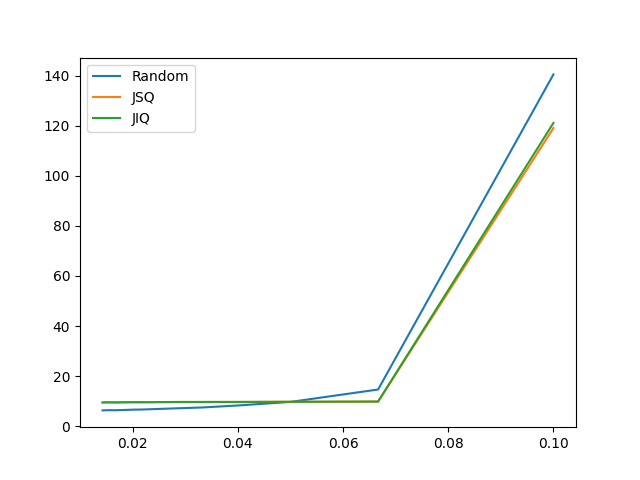
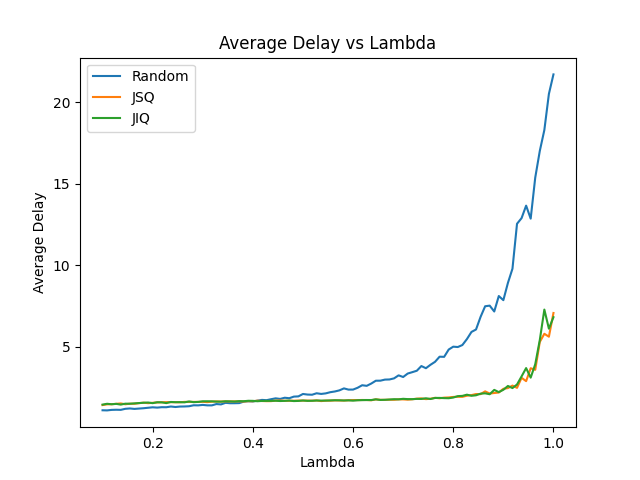
finished environment :)

diff --git a/testenv.py b/testenv.py
@@ -14,30 +14,36 @@ parser.add_argument("dispatchercount", help="The number of dispatchers within th
 args = parser.parse_args()
 
 results = {}
-intervals = [i for i in range(1, 75, 5)]
-for op in range(1, 2):
+
+
+LAMBDAS = np.linspace(0.1, 1.0, num=100)
+for op in range(1, 4):
     avgDelay = []
-    for interval in intervals:
-        delaysArr = []
-        env = simpy.Environment()
-        serverArr = [Server(env, str(i), delaysArr) for i in range(args.servercount)]
-        dispatcherArr = [Dispatcher(env, serverArr, str(i), op) for i in range(args.dispatchercount)]
-        for dispatch in dispatcherArr:
-            env.process(dispatch.run(interval))
+    for Lambda in LAMBDAS:
+        total = 0
+        for _ in range(5):
+            delaysArr = []
+            env = simpy.Environment()
+            serverArr = [Server(env, str(i), delaysArr) for i in range(args.servercount)]
+            interval = args.dispatchercount / (args.servercount * Lambda)
+            dispatcherArr = [Dispatcher(env, serverArr, str(i), op) for i in range(args.dispatchercount)]
+            for dispatch in dispatcherArr:
+                env.process(dispatch.run(interval))
 
-        if args.time:
-            env.run(until=args.time)
-        else:
-            env.run(until=2500)
-
-        avgDelay.append(np.mean(delaysArr))
+            if args.time:
+                env.run(until=args.time)
+            else:
+                env.run(until=2500)
+            total += np.mean(delaysArr)
+        avgDelay.append(total / 5)
     results[dispatcherArr[0].getOperationName()] = avgDelay
 
-x = list(map(lambda x: args.dispatchercount / (args.servercount * x) , intervals))
+x = LAMBDAS
 fig, ax = plt.subplots()
 for key in results:
     ax.plot(x, results[key], label=key)
+# ax.plot(x, 1 / (1 - x), label="Theoretical")
+ax.set(xlabel='Lambda', ylabel='Average Delay',
+       title='Average Delay vs Lambda')
 plt.legend(loc="upper left")
 plt.show()
-
-print(np.mean(delaysArr))

diff --git a/dispatcher.py b/dispatcher.py
@@ -64,6 +64,8 @@ class Dispatcher:
     def run(self, pause):
         count = 0
         while 1:
+            
+            
             count += 1
             job = Job(self.env, str(count))
             print(f"job {count} was sent from {self.name}")
@@ -73,5 +75,6 @@ class Dispatcher:
                 self.JSQ(job)
             elif (self.op == 3):
                 self.JIQ(job)
-            interval = poisson.rvs(pause)
+            # interval = poisson.rvs()
+            interval = np.random.exponential(pause)
             yield self.env.timeout(interval)

diff --git a/job.py b/job.py
@@ -1,10 +1,10 @@
-import simpy, random
+import numpy as np
 
 class Job:
     def __init__(self, env, jobName):
         self.env = env
         self.jobName = jobName
-        self.processTime = 1
+        self.processTime = np.random.exponential(1)
         self.created = self.env.now
         self.processed = None
     
